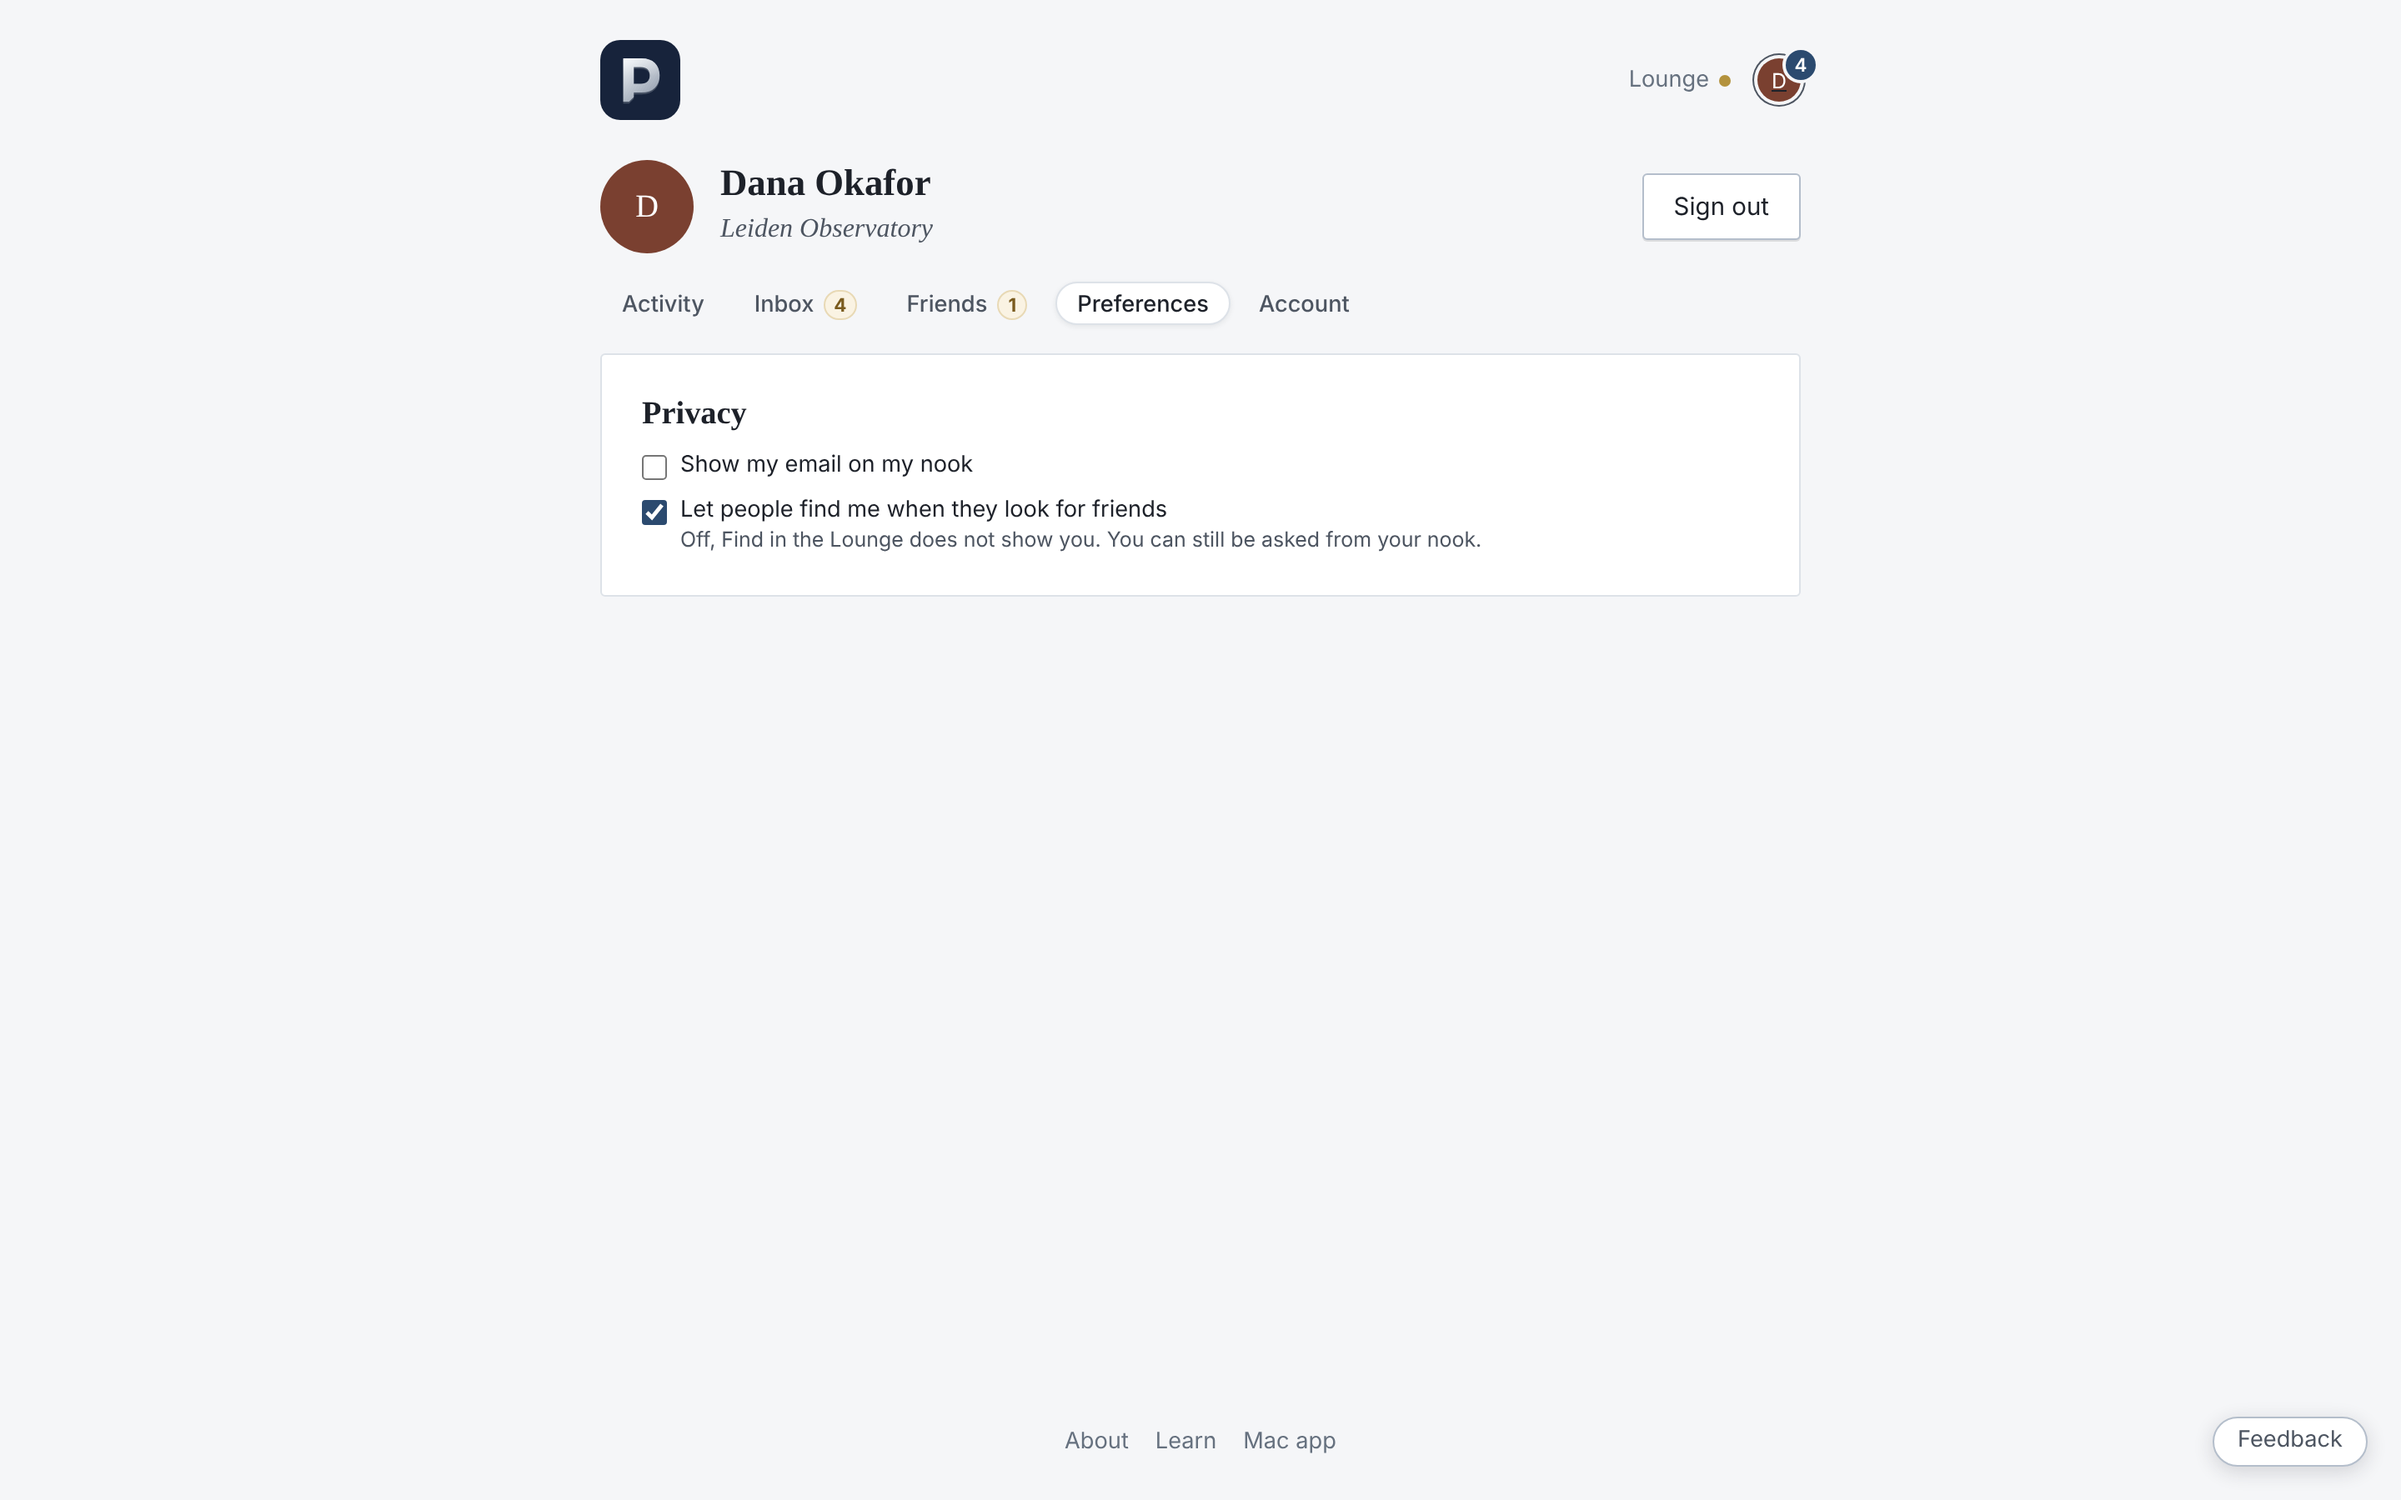
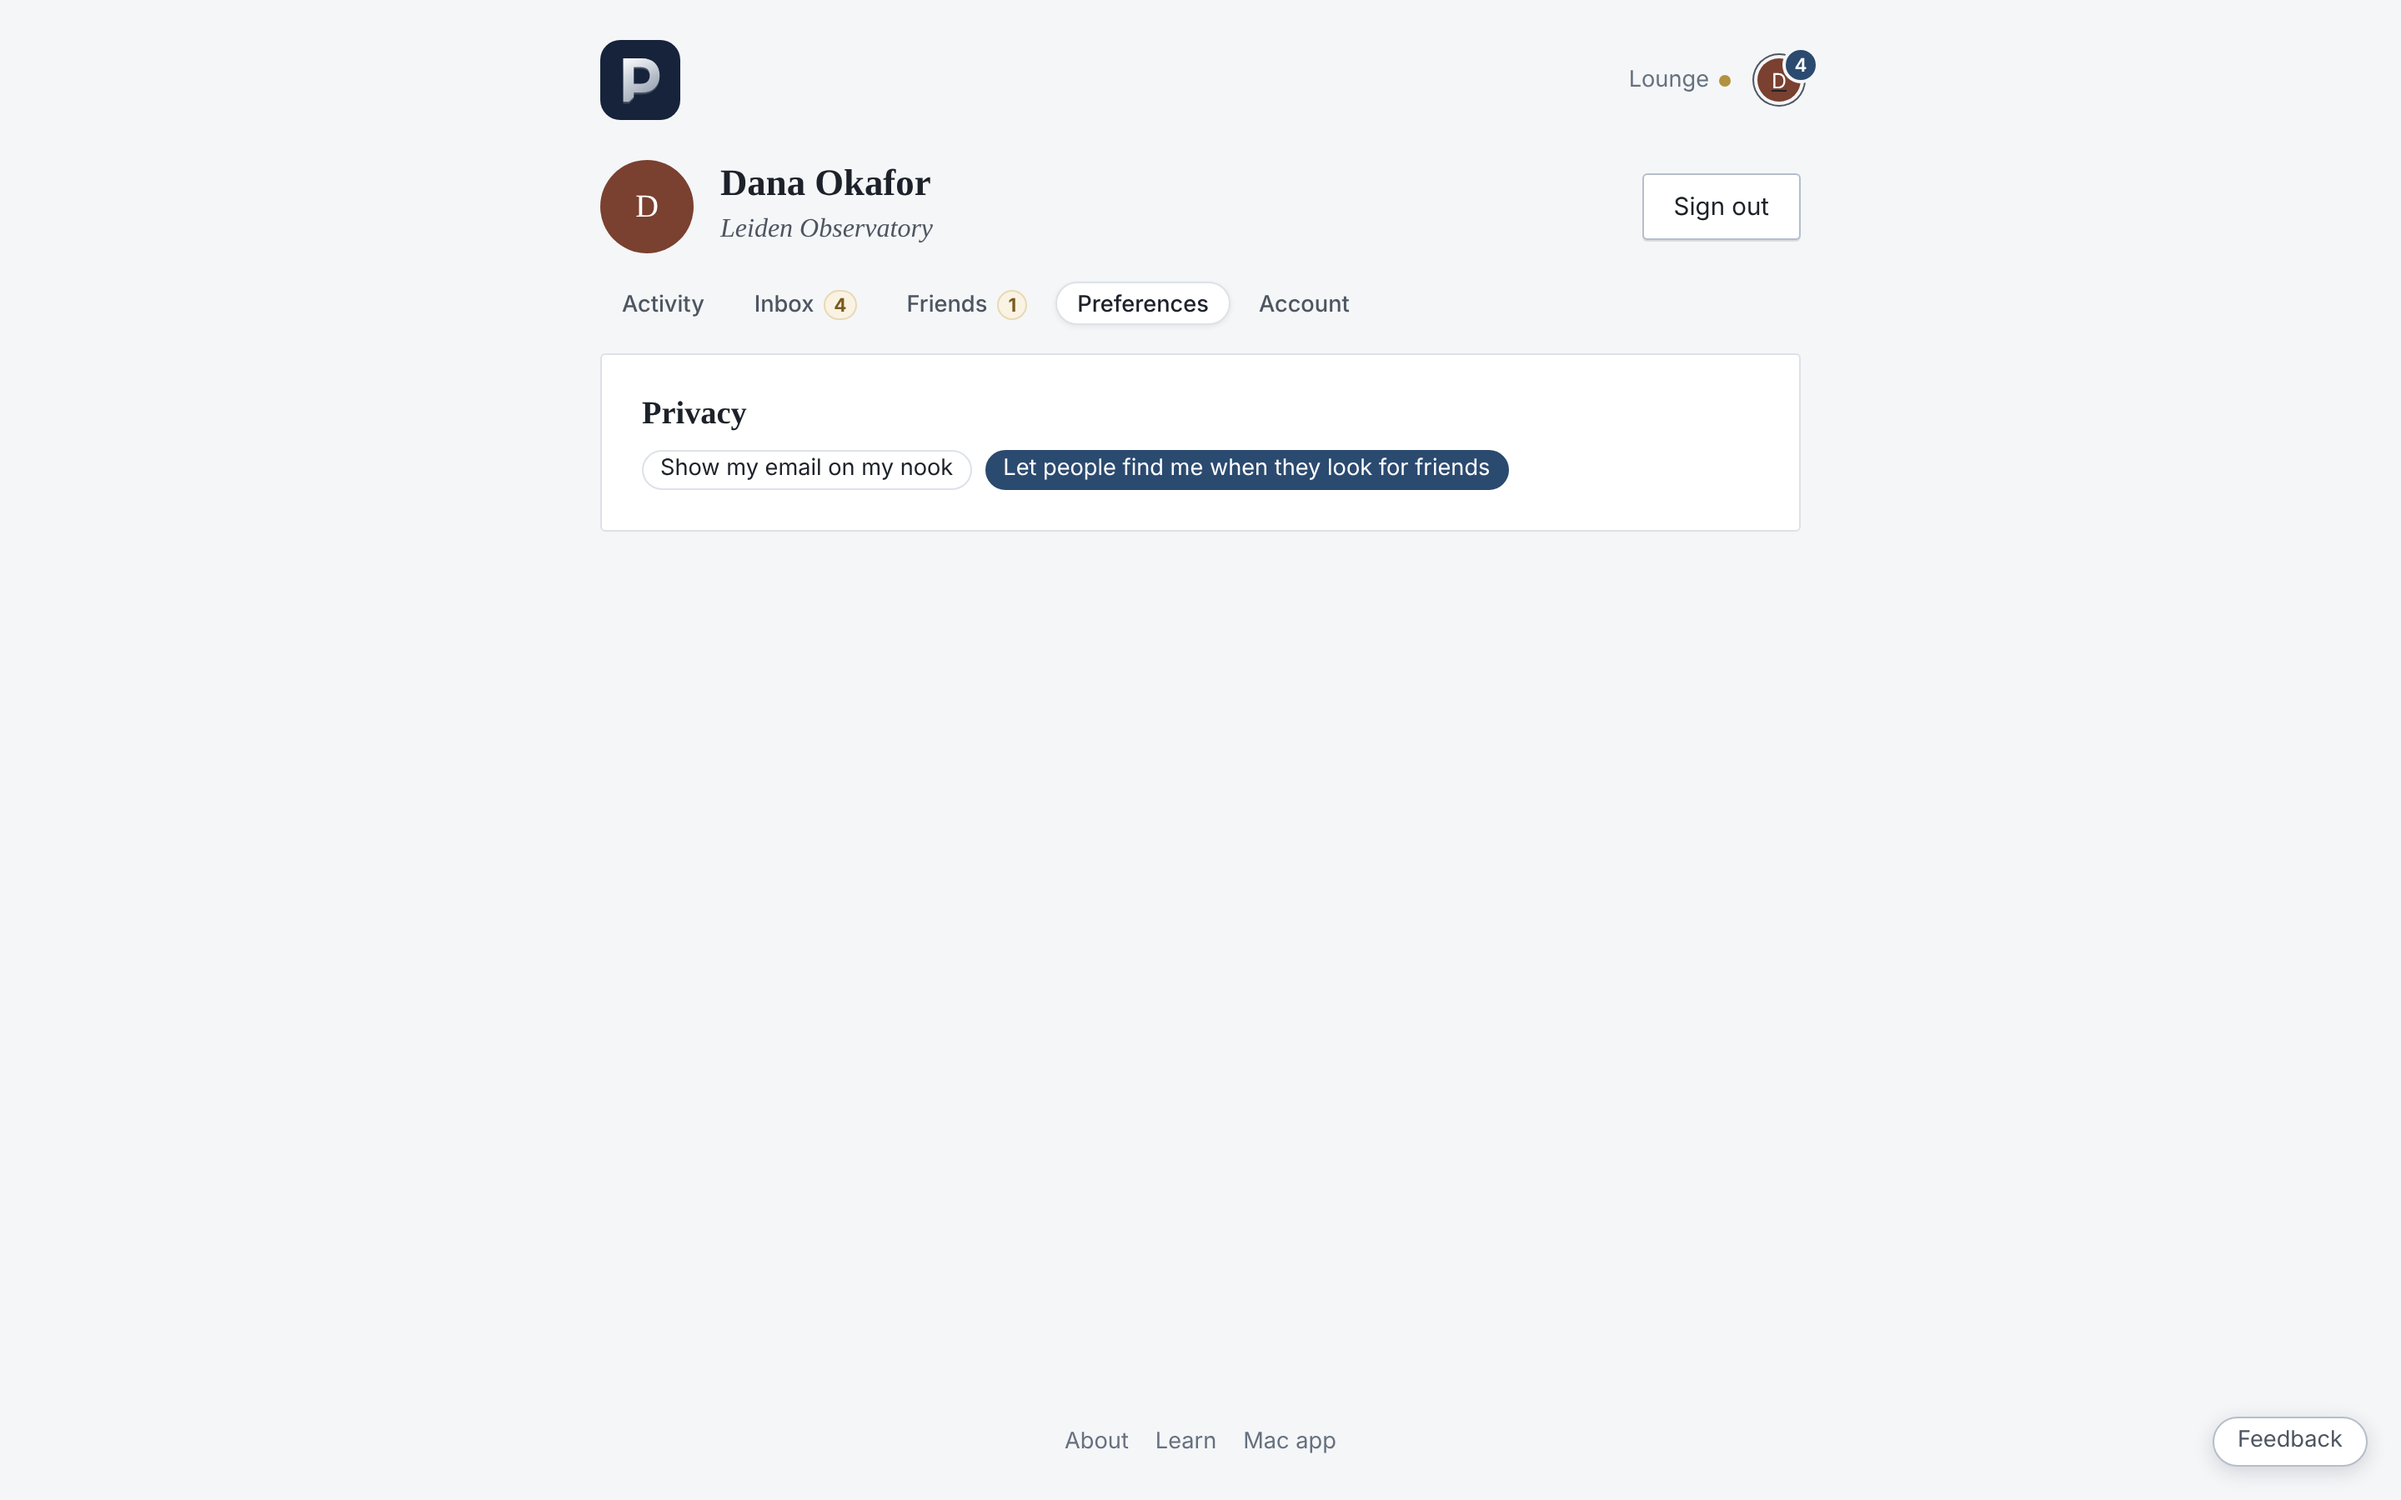
Preferences: chips in place of tick boxes, and no helper text
Claude-Session: https://claude.ai/code/session_01PQZzMU9GKrAFQp5Cu1jE2g

Changed region(s): [[0.25, 0.28, 0.625, 0.3733]]

diff --git a/frontend/src/components/PreferencesPanel.jsx b/frontend/src/components/PreferencesPanel.jsx
@@ -14,11 +14,11 @@ export default function PreferencesPanel({ user, onUserUpdated }) {
     setError(null);
     try { onUserUpdated(await updateProfile(change)); } catch (err) { setError(err.message); } finally { setBusy(false); }
   };
-  const tick = (label, checked, change, note) => (
-    <label className="checkbox-row">
-      <input type="checkbox" checked={checked} disabled={busy} onChange={(e) => keep(change(e.target.checked))} />
-      <span>{label}{note && <span className="preferences-note">{note}</span>}</span>
-    </label>
+  // A chip that is on or off, as a tag chip is when it narrows a list.
+  const chip = (label, on, change) => (
+    <button type="button" className={`tag-chip preferences-chip${on ? ' selected' : ''}`} aria-pressed={on} disabled={busy} onClick={() => keep(change(!on))}>
+      {label}
+    </button>
   );
 
   return (
@@ -26,9 +26,10 @@ export default function PreferencesPanel({ user, onUserUpdated }) {
       {error && <div className="error" role="alert">{error}</div>}
       <section className="panel preferences-block" aria-labelledby="preferences-privacy">
         <h2 className="panel-title" id="preferences-privacy">Privacy</h2>
-        {tick('Show my email on my nook', Boolean(user.email_public), (on) => ({ email_public: on }))}
-        {tick('Let people find me when they look for friends', user.findable ?? true, (on) => ({ findable: on }),
-          'Off, Find in the Lounge does not show you. You can still be asked from your nook.')}
+        <div className="preferences-chips">
+          {chip('Show my email on my nook', Boolean(user.email_public), (on) => ({ email_public: on }))}
+          {chip('Let people find me when they look for friends', user.findable ?? true, (on) => ({ findable: on }))}
+        </div>
       </section>
     </div>
   );

diff --git a/shared/applicationStyles.js b/shared/applicationStyles.js
@@ -5747,8 +5747,8 @@ ${talkStyles}
 .preferences-panel { display: grid; gap: var(--space-4); }
 .preferences-block { display: grid; gap: var(--space-2); margin: 0; }
 .preferences-block .panel-title, .preferences-block .panel-note { margin: 0; }
-.preferences-block .checkbox-row { color: var(--ink); font: 400 var(--fs-sm)/1.4 var(--font-ui); }
-.preferences-note { display: block; color: var(--ink-soft); font: 400 var(--fs-xs)/1.4 var(--font-ui); }
+.preferences-chips { display: flex; flex-wrap: wrap; gap: var(--space-2); }
+.preferences-chip { border-radius: 999px; box-shadow: none; font: 400 var(--fs-sm) var(--font-ui); }
 
 /* ---------- The Lounge ---------- */
 /* What my friends are reading and what they make of it: a paper to a row,

diff --git a/USER_STORIES.md b/USER_STORIES.md
@@ -196,7 +196,7 @@ A friend is someone I chose, who chose me back. Friendship is the third audience
 
 **Becoming friends**
 
-- **US-9.1** As a user, I can ask another user to be friends from their nook. One small button, a glyph of a person with a plus, whose tooltip reads **Ask to be friends**; once pressed it shows a person with dots (**Requested**), and pressing it again takes the request back. A glyph where words would be loud: only Accept and Not now, an answer still owed, are written out. **Find** in the Lounge looks people up by name or address; a tick box on my **Preferences** tab, *Let people find me when they look for friends*, on to begin with, takes me out of what Find shows. Preferences is one tab of my own page that holds every choice I make about how Papol behaves for me: whether my email shows on my nook and whether I can be found. What belongs to the reader, such as what its navigation bar marks, is set in the reader. Each is kept as it is ticked. Off, I can still be asked from my nook.
+- **US-9.1** As a user, I can ask another user to be friends from their nook. One small button, a glyph of a person with a plus, whose tooltip reads **Ask to be friends**; once pressed it shows a person with dots (**Requested**), and pressing it again takes the request back. A glyph where words would be loud: only Accept and Not now, an answer still owed, are written out. **Find** in the Lounge looks people up by name or address; a chip on my **Preferences** tab, *Let people find me when they look for friends*, on to begin with, takes me out of what Find shows. Preferences is one tab of my own page that holds every choice I make about how Papol behaves for me: whether my email shows on my nook and whether I can be found. What belongs to the reader, such as what its navigation bar marks, is set in the reader. Each is a chip, filled when on, kept as it is pressed. Off, I can still be asked from my nook.
 - **US-9.2** A request reaches them in their Inbox, with my face, name and affiliation and the papers we both keep on public shelves, so they can tell who is asking. They answer **Accept** or **Not now**. It also waits on the Friends tab of their own page until answered.
 - **US-9.3** **Not now is quiet.** I am never told I was declined; my button goes on reading Requested, and I cannot ask the same person a second time. They can change their mind later from my nook.
 - **US-9.4** If we have each asked the other, we are friends; nobody is made to accept a request they also sent.
